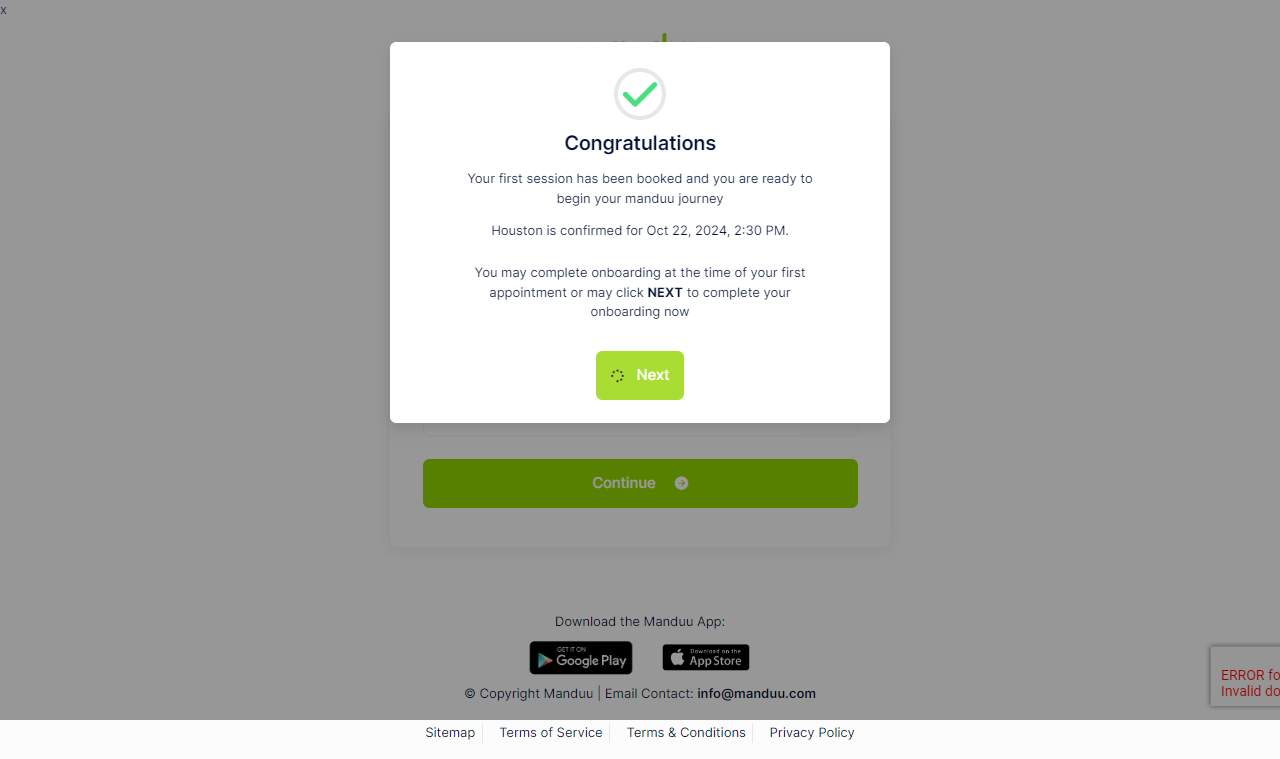
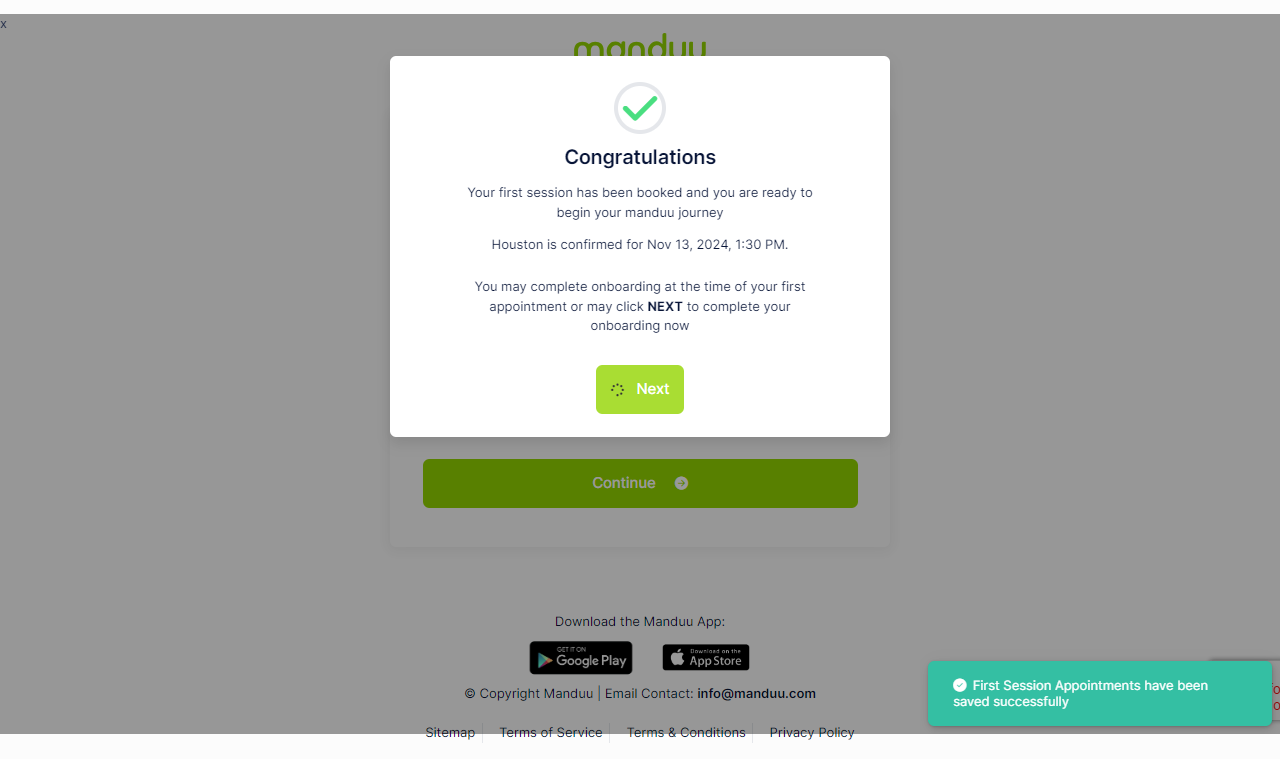
test5

Changed region(s): [[0.0, 0.0, 1.0, 0.5758], [0.0, 0.8485, 1.0, 0.9697]]

diff --git a/tests/newonboarding.spec.ts b/tests/newonboarding.spec.ts
@@ -2,17 +2,13 @@ import { test, expect } from '@playwright/test';
 import { allure } from "allure-playwright";
 //import { currentsReporter } from '@currents/playwright';
 
-
-
-const email = 'manduu.test146@gmail.com';
+const email = 'manduu.test161@gmail.com';
 const password = 'TestUser@1'
-const PhoneNumber = '056-146-1111';
+const PhoneNumber = '056-161-1111';
 const fName = 'test';
 const lName ='automate'
-
-
 const selectStu = 'Houston';
-const SelectedDate ='10/22/2024'
+const SelectedDate ='11/13/2024'
 let selectedTime: string | null = null;
 //const CalendarSelectedDate = 17 September, 2024
 // Convert selected date to calendar format
@@ -28,7 +24,7 @@ function convertDate(date: string): string {
   ];
 
   const [month, day, year] = date.split('/').map(part => parseInt(part, 10));
-  return `${day} ${months[month - 1]}, ${year}`;
+  return `${months[month - 1]} ${day}, ${year}`;
 }
 
 
@@ -44,8 +40,6 @@ test('Onboarding', async ({ page }) => {
 
  // Fill in the scheduled date
  await fillScheduledDate(page);
- 
-
  // Wait for time options and select a random time
  await selectRandomTime(page);
  await page.screenshot({ path: 'screenshot.png', fullPage: true });
@@ -61,22 +55,24 @@ test('Onboarding', async ({ page }) => {
  await FirstAppointment(page);
 
 });
-
+20
 
 
 test('Executed first appointment', async ({page}) => {
    
   await page.goto('https://admin.manduu.app/app/main/dashboard');
-  await page.getByRole('link', { name: 'Session Calendar' }).click();
-  
-  await page.fill('[formcontrolname="selectedDate"]', CalendarSelectedDate);
+  // await page.goto('https://admin.manduu.app/app/main/clients/client-session');
+ 
+await page.getByRole('link', { name: 'Session Calendar' }).click();
+await page.fill('[formcontrolname="selectedDate"]', CalendarSelectedDate);
 
- await page.getByRole('button', { name: 'Select studio ' }).click();
-//  await page.locator('.dropdown-item').getByText(selectStu).click();
+ 
+await page.getByRole('button', { name: 'Select studio ' }).click();
 await page.locator('.dropdown-item', { hasText: selectStu }).click();
-await page.waitForTimeout(2000);
+// await page.waitForTimeout(1000);
 
 await page.getByRole('button', { name: 'Refresh' }).click();
+await page.waitForTimeout(1000);
 
 await page.locator(`div.fc-event-custom-info:has-text("${selectedTime}")`)
     .filter({ hasText: `${fName} ${lName}` })
@@ -85,19 +81,12 @@ await page.locator(`div.fc-event-custom-info:has-text("${selectedTime}")`)
 
 await page.locator('app-dropdown[placeholder="Type"] .p-dropdown-trigger').click();
 await page.locator('.p-dropdown-item:has-text("First Appointment")').click();
-
-
 await page.locator('app-dropdown[placeholder="Status"] .p-dropdown-trigger').click();
 await page.getByLabel('Executed').click();
-
-
 await page.locator('app-dropdown[placeholder="Personal coach / Trainer"] .p-dropdown-trigger').click();
-  await page.waitForTimeout(1000);
-
+await page.waitForTimeout(1000);
   // await page.getByLabel('test manduu', { exact: true }).click();
-  await page.locator('.p-dropdown-item').filter({ hasText: /^test manduu$/ }).click();
-
-
+await page.locator('.p-dropdown-item').filter({ hasText: /^Test Manduu$/ }).click();
 await page.locator('app-text-area').filter({ hasText: 'Client Memo *' }).getByRole('textbox').fill('This whole process has been automated, to make things faster and to avoid mistakes, this sessions will be deleted after the testing: So as part of the onboarding admin is supposed to executed a user first appointment');
 await page.getByRole('button', { name: 'Save' }).click();
 await page.waitForTimeout(2000);
@@ -105,22 +94,17 @@ await page.waitForTimeout(2000);
 
 });
 
-test('LoginToCompleteOnboard', async ({ page }) => {
-    
+test('LoginToCompleteOnboard', async ({ page }) => {   
   await page.goto('https://newpwa.manduu.app/account/login');
   await page.getByPlaceholder('Username Or Email *').fill(email);
   await page.getByPlaceholder('Password *').fill(password);
   await page.getByRole('button', { name: 'Log In' }).click();
- 
   await addCard(page)
   await signContract(page)
- 
   await page.goto('https://newpwa.manduu.app/app/client/dashboard');
   
      });
 
-
-     
 
   async function fillPersonalInformation(page: any) {
   await page.locator('man-input').filter({ hasText: 'First Name *' }).getByRole('textbox').fill(fName);
@@ -141,7 +125,6 @@ test('LoginToCompleteOnboard', async ({ page }) => {
 
   }
 
-
    //Select the studio.
 async function selectStudio(page: any) {
 
@@ -153,9 +136,7 @@ async function selectStudio(page: any) {
 async function fillScheduledDate(page: any) {
    //await page.fill('#ScheduledDate', '05/07/2024');
    await page.fill('xpath=//input[@id="ScheduledDate"]',SelectedDate)
-  // await page.click('body');
-  // await page.waitForTimeout(1000);
-await page.click('text="Start Time"');
+   await page.click('text="Start Time"');
 
 
 }
@@ -245,10 +226,6 @@ async function signMedicalConditions(page: any) {
 }
 
 async function howYouHearAboutUs(page: any) {
-  
-  // Select how the user heard about Manduu (e.g., Print Magazine, Radio, TV, etc.)
-  // await page.click('input[type="checkbox"][name="howDidYouHearAboutUs"][value="Print Magazine"]');
-  //await page.getByRole('button', { name: 'Complete question' }).first().click();
   await page.getByRole('button', { name: 'Complete question' }).click()
   await page.locator('li').filter({ hasText: 'Print Magazine' }).getByRole('checkbox').check();
   await page.locator('li').filter({ hasText: 'Radio' }).getByRole('checkbox').check();
@@ -264,7 +241,6 @@ async function howYouHearAboutUs(page: any) {
   await page.locator('li').filter({ hasText: 'Referral' }).getByRole('checkbox').check();
   await page.getByRole('list').locator('li').filter({ hasText: 'Other' }).getByRole('checkbox').check();
 
-  // Fill in additional information
   // await page.getByRole('textbox').fill('through a movie');
  await page. getByTitle('How did you hear about us?').getByRole('textbox').fill('through a movie');
 
@@ -290,9 +266,6 @@ await page.locator('man-input').filter({ hasText: 'Street *' }).getByRole('textb
 await page.getByRole('button', { name: 'Save' }).click();
 
 
-
-
-//test
 
 }
 async function  CompleteClientInfo(page: any){
@@ -346,19 +319,15 @@ async (page:any) => {
   
   async function addCard(page:any) {
     await page.getByRole('button', { name: 'Add Card' }).click();
-    
     await page.getByTitle('Add Your Card').locator('input[type="text"]').fill('TESTER CARD');
-    
     await page.locator('#cc-number').first().fill('4916186141125817');
-    
     await page.locator('#cc-exp-date').fill('06 / 2026');
-    
     await page.locator('#cc-number').nth(1).fill('546');
     await page.getByRole('button', { name: 'Authorize' }).click();
   
   }
   
-       async function signContract(page:any){
+      async function signContract(page:any){
         await page.getByRole('button', { name: 'Sign Contract' }).click();
     // await page.locator('div').filter({ hasText: /^Fit 8 Plan \(Manduu Oklahoma\)$/ await page.getByRole('button', { name: 'Sign Contract' }).click();}).click();
     await page.locator('div').filter({ hasText: /^Unlimi- Fit Plan Best Value \*H \(Manduu Houston\)$/ }).click();
@@ -385,9 +354,7 @@ async (page:any) => {
     await page.getByRole('button', { name: ' Sign' }).click();
     await page.getByRole('button', { name: 'Complete Onboarding' }).click();
     //await page.goto('https://newpwa.manduu.app/app/client/dashboard');
-  
-  
-  
+
        }
       
 
@@ -404,24 +371,4 @@ async (page:any) => {
           console.error(`Expected one event but found ${eventCount}`);
         }
       }
-      // await page.goto('https://admin.manduu.app/app/main/clients/all');
-      // await page.goto('https://admin.manduu.app/account/login');
-      // await page.getByPlaceholder('Email Address or Phone Number').click();
-      // await page.getByPlaceholder('Email Address or Phone Number').fill('postester24@gmail.com');
-      // await page.getByPlaceholder('Password').click();
-      // await page.getByPlaceholder('Password').fill('TestUser@1');
-      // await page.locator('form i').first().click();
-      // await page.getByPlaceholder('Password').click();
-      // await page.getByRole('button', { name: 'Login' }).click();
-      // await page.goto('https://admin.manduu.app/app/main/clients/all');
-      // await page.getByRole('link', { name: 'Session Calendar' }).click();
-      // await page.getByRole('button', { name: 'Refresh' }).click();
-      // await page.locator('#kt_app_main form i').click();
-      // await page.getByRole('button', { name: '›' }).click();
-      // await page.getByText('17', { exact: true }).click();
-      // await page.locator('a').filter({ hasText: ':30 am - 07:00 am Julie Cox' }).nth(2).click();
-      // await page.getByLabel('Personal Coaching').click();
-      // await page.getByLabel('First Appointment').click();
-      // await page.getByLabel('Pending').click();
-      // await page.getByLabel('Executed').click();
-      // await page.getByRole('button', { name: 'Close' }).click();
+      
